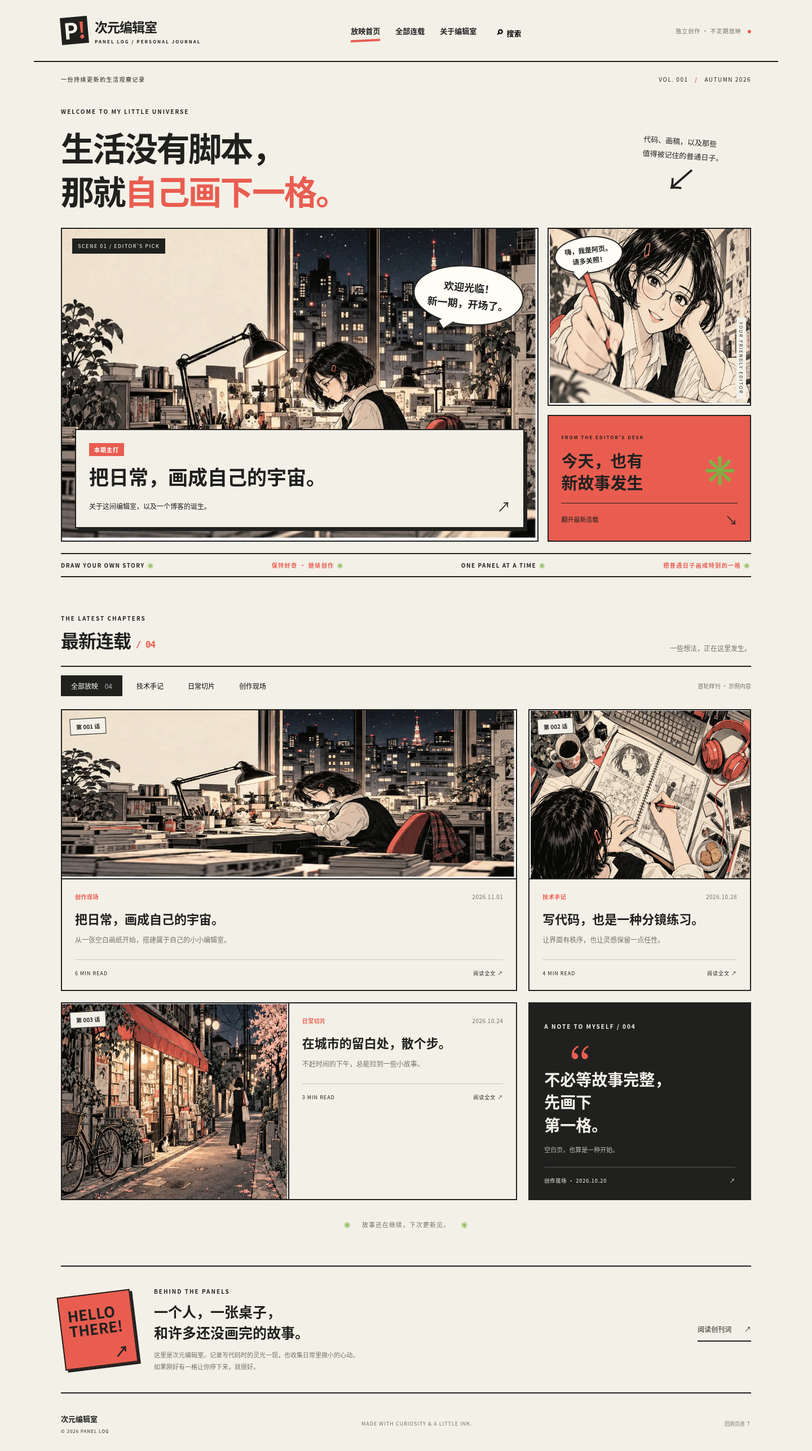
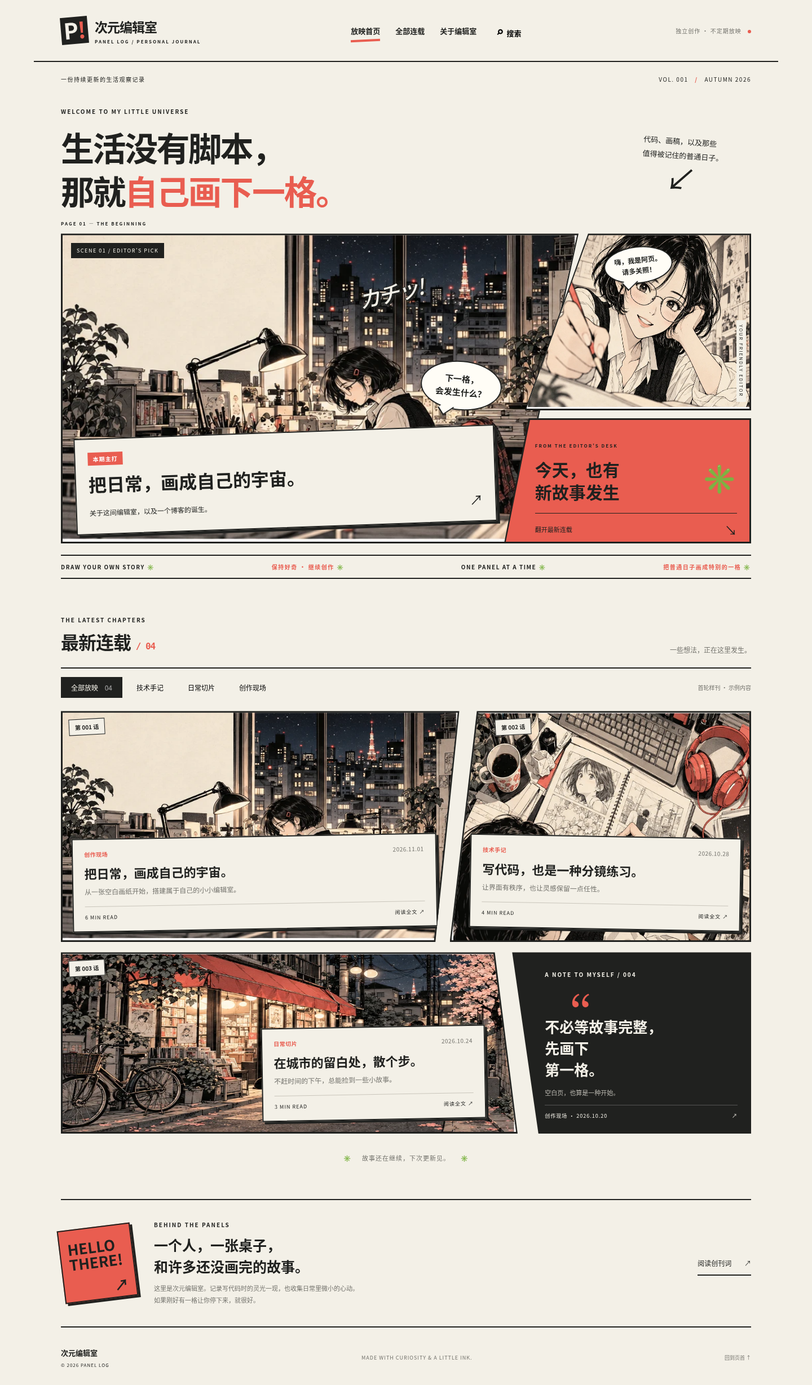
Compose homepage as irregular manga panels

diff --git a/styles.css b/styles.css
@@ -1,1 +1,85 @@
 :root{--paper:#f3f0e7;--ink:#20211f;--muted:#75746e;--red:#e95d50;--line:2px solid var(--ink)}*{box-sizing:border-box}html{scroll-behavior:smooth;scroll-padding-top:24px}body{margin:0;background:var(--paper);color:var(--ink);font-family:'Noto Sans CJK SC','PingFang SC','Microsoft YaHei',sans-serif}a{color:inherit;text-decoration:none}button,input{font:inherit}button,a{-webkit-tap-highlight-color:transparent}button{cursor:pointer}a:focus-visible,button:focus-visible,input:focus-visible{outline:3px solid var(--red);outline-offset:5px}::selection{background:#f6b1a3}h1,h2,h3,p{margin:0}main,.site-header,footer{max-width:1320px;margin:auto;padding-left:48px;padding-right:48px}.site-header{display:flex;align-items:center;justify-content:space-between;min-height:110px;border-bottom:var(--line);gap:24px}.brand{display:flex;align-items:center;gap:12px;font-size:23px;font-weight:900;letter-spacing:-1px}.brand small{display:block;font-size:8px;letter-spacing:2px;margin-top:4px}.brand-mark{font-size:39px;line-height:44px;background:var(--ink);color:var(--paper);width:48px;height:48px;text-align:center;transform:rotate(-5deg);font-family:Arial Black,sans-serif}.brand-mark span{color:var(--red)}nav{display:flex;gap:27px;align-items:center;font-size:13px;font-weight:700}nav a{padding:12px 0;position:relative}nav a.active:after{content:'';position:absolute;bottom:2px;left:0;width:100%;height:4px;background:var(--red);transform:rotate(-3deg)}.search-toggle{border:0;background:none;font-size:22px;padding:8px}.search-toggle span{font-size:13px}.header-note{font-size:10px;letter-spacing:1px;color:var(--muted)}.header-note i{display:inline-block;width:6px;height:6px;background:var(--red);border-radius:100%;margin-left:8px}.issue-line{display:flex;justify-content:space-between;font-size:10px;letter-spacing:1.5px;margin:23px 0 42px}.issue-line b{color:var(--red);padding:0 8px}.eyebrow{font-size:10px;font-weight:800;letter-spacing:2px}.hero-heading{display:flex;justify-content:space-between;align-items:center;margin-bottom:28px}.hero-heading .eyebrow{margin-bottom:18px}h1{font-size:clamp(36px,4.2vw,59px);line-height:1.3;letter-spacing:-2.5px;font-weight:900}.coral{color:var(--red)}.intro-note{font-size:13px;line-height:1.9;transform:rotate(4deg);padding:20px 50px 0 0;position:relative}.hand-arrow{display:block;font-size:55px;line-height:1;text-align:center}.cover-grid{display:grid;grid-template-columns:minmax(0,2.35fr) minmax(0,1fr);gap:16px}.panel{border:var(--line);position:relative;overflow:hidden;background:var(--paper)}a.panel{transition:box-shadow .2s,transform .2s}a.panel:hover{box-shadow:5px 5px 0 var(--ink);transform:translate(-2px,-2px)}.cover-main{min-height:498px}.art{background-color:#dedbd1;background-image:url('assets/manga-sheet.webp');background-size:200% 200%;background-repeat:no-repeat}.studio{background-position:0 0}.portrait{background-position:100% 0}.street{background-position:0 100%}.desk{background-position:100% 100%}.cover-main>.art{position:absolute;inset:0}.panel-index{position:absolute;top:17px;left:18px;padding:7px 10px;background:var(--ink);color:var(--paper);font-size:9px;letter-spacing:1.5px}.speech{display:block;background:#fffdf6;border:2px solid var(--ink);border-radius:50%;padding:22px 24px;font-size:18px;font-weight:800;line-height:1.6;text-align:center;box-shadow:3px 3px 0 #20211f26}.speech:after{content:'';position:absolute;bottom:-9px;left:26%;height:18px;width:18px;background:#fffdf6;border-right:2px solid var(--ink);border-bottom:2px solid var(--ink);transform:skew(-20deg) rotate(42deg)}.cover-speech{position:absolute;top:65px;right:24px;transform:rotate(5deg)}.cover-caption{position:absolute;bottom:22px;left:23px;right:23px;background:var(--paper);border:var(--line);padding:20px 23px;box-shadow:5px 5px 0 var(--ink)}.tag{font-size:10px;font-weight:800;padding:4px 9px;display:inline-block;letter-spacing:1px}.red{color:#fff;background:var(--red)}.cover-caption h2{font-size:clamp(23px,2.45vw,35px);margin:10px 0}.cover-caption p{font-size:12px;display:flex;justify-content:space-between;align-items:center}.cover-caption p span{font-size:24px}.cover-side{display:grid;grid-template-rows:1.4fr 1fr;gap:16px}.editor-panel .art{position:absolute;inset:0}.mini-speech{position:absolute;font-size:12px;padding:12px 17px;left:10px;top:13px;transform:rotate(-6deg)}.vertical-label{writing-mode:vertical-rl;position:absolute;right:7px;bottom:10px;background:var(--paper);font-size:8px;letter-spacing:2px;padding:8px 3px}.dispatch{padding:22px;background:var(--red)}.dispatch .eyebrow{font-size:8px}.dispatch h2{font-size:29px;line-height:1.35;margin:13px 0 17px;position:relative}.dispatch h2>span{position:absolute;right:0;top:0;font-size:50px}.dispatch>div{border-top:1px solid var(--ink);padding-top:12px;display:flex;align-items:center;justify-content:space-between;font-size:11px}.circle-arrow{font-size:22px}.ticker{margin-top:20px;border-top:var(--line);border-bottom:var(--line);padding:12px 0;display:flex;justify-content:space-between;gap:25px;overflow:hidden;white-space:nowrap;font-size:10px;font-weight:800;letter-spacing:1.5px}.ticker span:nth-child(2n){color:var(--red)}.latest{padding-top:65px}.section-heading{display:flex;align-items:flex-end;justify-content:space-between;margin-bottom:23px}.section-heading h2{font-size:32px;letter-spacing:-1px;margin-top:8px}.count{font-size:16px;color:var(--red);font-family:monospace}.section-heading>p{font-size:12px;color:var(--muted)}.filters{display:flex;gap:7px;align-items:center;border-top:var(--line);padding:15px 0 23px}.filters button{border:1px solid transparent;background:transparent;padding:9px 17px;font-size:12px}.filters button.selected{background:var(--ink);color:var(--paper)}.filters button span{margin-left:9px;color:#aaa}.demo-label{margin-left:auto;font-size:10px;color:var(--muted)}.article-grid{display:grid;grid-template-columns:repeat(3,minmax(0,1fr));gap:20px}.featured{grid-column:span 2}.card-image{height:215px;border-bottom:var(--line)}.featured .card-image{height:300px}.image-label{position:absolute;top:14px;left:14px;background:var(--paper);padding:6px 10px;border:1px solid var(--ink);font-size:10px;font-weight:800;transform:rotate(-3deg)}.card-copy{padding:23px}.meta{display:flex;justify-content:space-between;gap:10px;font-size:10px;color:var(--muted);letter-spacing:.5px}.meta>span{color:var(--red);font-weight:800}.card-copy h3{font-size:22px;line-height:1.5;margin:15px 0 10px}.card-copy p{font-size:12px;line-height:1.9;color:var(--muted)}.card-bottom{display:flex;justify-content:space-between;align-items:center;border-top:1px solid #c9c5bb;padding-top:17px;margin-top:23px;font-size:9px;letter-spacing:1px}.article-grid>.article-card:nth-child(2){align-self:stretch}.article-grid>.article-card:nth-child(2) .card-image{height:300px}.article-grid>.article-card:nth-child(3){grid-column:span 2;display:grid;grid-template-columns:1fr 1fr}.article-grid>.article-card:nth-child(3) .card-image{height:100%;min-height:280px;border-bottom:0;border-right:var(--line)}.quote-card{padding:26px;background:var(--ink);color:var(--paper)}.quote-symbol{font-family:Georgia,serif;color:var(--red);font-size:85px;height:64px;display:block}.quote-card h3{font-size:28px;line-height:1.45}.quote-card>p{font-size:11px;color:#b9b7af;margin-top:15px}.quote-card .card-bottom{border-color:#555}.end-note{text-align:center;padding:35px 0 0;font-size:11px;color:var(--muted);letter-spacing:1px}.end-note span{color:var(--red);padding:0 15px}.about{border-top:var(--line);border-bottom:var(--line);margin:65px 0 35px;padding:36px 0;display:flex;align-items:center;gap:35px}.about-stamp{flex-shrink:0;width:130px;height:130px;background:var(--red);border:var(--line);padding:19px 13px;font-family:Arial Black,sans-serif;font-size:26px;line-height:1.05;font-weight:900;transform:rotate(-7deg);position:relative;box-shadow:4px 4px 0 var(--ink)}.about-stamp span{position:absolute;bottom:8px;right:12px}.about h2{font-size:25px;line-height:1.5;margin:10px 0}.about p:not(.eyebrow){font-size:11px;line-height:1.9;color:var(--muted)}.about-link{margin-left:auto;white-space:nowrap;font-size:12px;border-bottom:var(--line);padding:12px 0}.about-link span{padding-left:20px}footer{display:flex;justify-content:space-between;align-items:center;gap:20px;padding-bottom:30px;font-size:9px;color:var(--muted)}.footer-brand{color:var(--ink);font-weight:800;font-size:13px}.footer-brand span{display:block;font-size:8px;font-weight:400;margin-top:7px;letter-spacing:1px}footer>span{letter-spacing:1px}.skip{position:fixed;top:-100px;left:15px;z-index:100;background:var(--paper);padding:15px}.skip:focus{top:10px}[hidden]{display:none!important}.empty{padding:50px;text-align:center}dialog{width:min(620px,calc(100% - 32px));max-height:80vh;padding:30px;background:var(--paper);border:var(--line);box-shadow:8px 8px 0 var(--ink)}dialog::backdrop{background:#20211f99}dialog form{display:flex;justify-content:space-between;align-items:center}dialog label{font-size:22px;font-weight:800}dialog label small{display:block;font-size:11px;font-weight:400;margin-top:8px;color:var(--muted)}.close-search{border:0;background:transparent;font-size:32px}dialog input{width:100%;margin:25px 0 15px;padding:14px;border:var(--line);background:#fffdf6}#search-results a{display:block;padding:15px 0;border-bottom:1px solid #cbc7bd;font-size:14px}#search-results a small{display:block;color:var(--red);margin-bottom:5px}.reader-shell{padding-top:30px}.breadcrumb{font-size:11px;color:var(--muted);margin-bottom:25px}.article-heading{max-width:850px;margin:35px auto}.article-heading h1{font-size:clamp(32px,4vw,52px);margin:20px 0;letter-spacing:-1.5px}.article-heading .deck{font-size:16px;line-height:1.8;color:var(--muted);margin-bottom:22px}.article-tools{display:flex;gap:12px;align-items:center;justify-content:space-between}.article-tools .meta{gap:20px}.reading-toggle{background:transparent;border:1px solid var(--ink);padding:8px 12px;font-size:11px}.article-banner{height:360px;border:var(--line);position:relative}.article-banner .speech{position:absolute;right:30px;top:25px;font-size:15px}.reading-layout{display:grid;grid-template-columns:180px minmax(0,740px);gap:50px;justify-content:center;margin-top:50px}.toc{align-self:start;position:sticky;top:30px;font-size:11px;line-height:2}.toc strong{display:block;margin-bottom:15px;font-size:10px;letter-spacing:2px}.toc a{display:block;border-left:2px solid #d4cfc4;padding:5px 0 5px 14px}.toc a:hover{border-color:var(--red);color:var(--red)}.prose{background:#fffdf7;border:var(--line);padding:44px 48px;font-size:17px;line-height:1.95;min-width:0}.prose p{margin-bottom:24px}.prose h2{font-size:26px;line-height:1.5;margin:42px 0 22px;scroll-margin-top:30px}.prose h2:first-child{margin-top:0}.prose h2 span{font-size:13px;color:var(--red);margin-right:10px;font-family:monospace}.prose blockquote{margin:30px 0;border-left:5px solid var(--red);padding:16px 22px;background:var(--paper);font-weight:700}.prose figure{margin:30px 0}.inline-art{height:250px;border:var(--line)}.prose figcaption{text-align:center;font-size:11px;color:var(--muted);margin-top:8px}.code-wrap{position:relative}.copy-code{position:absolute;right:10px;top:9px;border:1px solid #777;background:var(--ink);color:var(--paper);padding:5px 9px;font-size:11px}.prose pre{background:var(--ink);color:#f2ead9;font-size:13px;padding:45px 20px 22px;overflow:auto;line-height:1.8}.table-scroll{overflow:auto}.prose table{width:100%;border-collapse:collapse;font-size:13px;white-space:nowrap}.prose td,.prose th{border:1px solid #cbc6bb;padding:12px;text-align:left}.prose th{background:var(--paper)}.colophon{font-size:12px;color:var(--muted);border-top:1px solid #ccc;padding-top:23px;margin-top:35px}.back-link{display:block;margin:35px 0;text-align:center;font-size:13px}.reading-mode .article-banner,.reading-mode .toc{display:none}.reading-mode .reading-layout{display:block;max-width:780px;margin:35px auto}.reading-mode .prose{border-color:transparent}.reading-mode .art{display:none}@media(prefers-reduced-motion:no-preference){.cover-grid{animation:arrive .6s ease-out}@keyframes arrive{from{opacity:0;transform:translateY(12px)}to{opacity:1;transform:none}}}@media(min-width:1450px){body:before,body:after{content:'PANEL LOG — ONE PANEL AT A TIME';position:fixed;top:40%;writing-mode:vertical-rl;font-size:9px;letter-spacing:4px;color:#aaa69b}body:before{left:25px}body:after{right:25px}}@media(max-width:1050px){main,.site-header,footer{padding-left:28px;padding-right:28px}.header-note{display:none}.intro-note{padding-right:15px}.cover-main{min-height:450px}.dispatch{padding:17px}.dispatch h2{font-size:24px}.dispatch h2>span{font-size:36px}.reading-layout{grid-template-columns:140px minmax(0,1fr);gap:25px}.prose{padding:32px}.about{gap:25px}.about h2{font-size:21px}}@media(max-width:700px){main,.site-header,footer{padding-left:20px;padding-right:20px}.site-header{min-height:83px;gap:10px}.brand{font-size:18px;gap:8px}.brand-mark{width:37px;height:38px;font-size:30px;line-height:36px}.brand small{font-size:6px;letter-spacing:1px}nav{gap:10px}nav>a{display:none}.search-toggle span{display:none}.issue-line{font-size:8px;letter-spacing:.3px;margin:18px 0 30px}.hero-heading .eyebrow{font-size:8px;letter-spacing:1.4px;margin-bottom:14px}h1{font-size:36px;letter-spacing:-1.8px}.intro-note{display:none}.hero-heading{margin-bottom:23px}.cover-grid{grid-template-columns:1fr;gap:12px}.cover-main{min-height:420px}.cover-main>.art{background-size:auto 200%;background-position:12% 0}.cover-speech{font-size:13px;padding:17px;right:16px;top:55px}.panel-index{font-size:7px;left:12px;top:12px}.cover-caption{left:12px;right:16px;bottom:16px;padding:16px}.cover-caption h2{font-size:23px}.cover-caption p{font-size:10px;line-height:1.7}.cover-side{grid-template-columns:1fr 1fr;grid-template-rows:180px;gap:12px}.mini-speech{font-size:10px;padding:8px 10px;top:8px;left:5px}.dispatch{padding:14px}.dispatch .eyebrow{font-size:6px;letter-spacing:1px}.dispatch h2{font-size:21px;margin:14px 0}.dispatch h2>span{font-size:28px;right:-5px;top:30px}.dispatch>div{font-size:9px}.ticker{margin-top:17px;font-size:8px;padding:10px 0;gap:28px}.latest{padding-top:40px}.section-heading h2{font-size:28px}.section-heading>p{display:none}.filters{gap:0;flex-wrap:wrap;padding:12px 0 17px}.filters button{font-size:11px;padding:8px 12px}.demo-label{width:100%;margin-top:13px;font-size:9px}.article-grid{grid-template-columns:1fr;gap:17px}.featured,.article-grid>.article-card:nth-child(3){grid-column:auto}.card-image,.featured .card-image,.article-grid>.article-card:nth-child(2) .card-image{height:220px}.card-copy{padding:20px}.card-copy h3{font-size:21px}.article-grid>.article-card:nth-child(3){display:block}.article-grid>.article-card:nth-child(3) .card-image{height:220px;min-height:0;border-right:0;border-bottom:var(--line)}.quote-card{min-height:290px}.quote-card h3{font-size:29px}.end-note{font-size:9px;letter-spacing:0}.end-note span{padding:0 5px}.about{margin-top:40px;padding:28px 0;display:grid;grid-template-columns:72px 1fr;gap:20px}.about-stamp{width:70px;height:85px;font-size:16px;padding:13px 6px}.about .eyebrow{font-size:7px;letter-spacing:1px}.about h2{font-size:18px}.about p:not(.eyebrow){font-size:11px}.about-link{grid-column:2;margin:0;justify-self:start;padding:0 0 8px}footer{flex-wrap:wrap;font-size:8px}footer>span{order:3;width:100%;font-size:7px}.article-heading{margin:25px 0}.article-heading h1{font-size:34px}.article-heading .deck{font-size:14px}.article-tools{align-items:flex-start}.article-tools .meta{gap:7px;flex-direction:column}.article-banner{height:240px}.article-banner .speech{font-size:12px;padding:15px;right:15px;top:15px}.reading-layout{display:block;margin-top:25px}.toc{position:static;border:var(--line);padding:16px;margin-bottom:20px}.toc strong{margin-bottom:8px}.toc a{display:inline-block;padding:2px 10px}.prose{padding:25px 20px;font-size:16px;line-height:1.9}.prose h2{font-size:23px}.prose blockquote{padding:15px;font-size:15px}.inline-art{height:200px}}@media(prefers-reduced-motion:reduce){html{scroll-behavior:auto}*,*:before,*:after{animation:none!important;transition:none!important}}
+
+/* Manga page composition: image cuts, gutters and readable horizontal captions. */
+.cover-grid.manga-spread{display:block;position:relative;height:550px;margin-top:38px;margin-bottom:12px;isolation:isolate}
+.manga-spread .panel{border:0;background:var(--ink);position:absolute;transform:none;box-shadow:none}
+.manga-spread .panel>.art{inset:3px;background-color:var(--paper)}
+.manga-spread .cover-main{top:0;left:0;width:75%;height:100%;min-height:0;clip-path:polygon(0 0,100% 0,87% 100%,0 100%)}
+.manga-spread .cover-main>.art{clip-path:polygon(0 0,100% 0,87% 100%,0 100%);background-size:200% 200%}
+.manga-spread .cover-side{display:contents}
+.manga-spread .editor-panel{right:0;top:0;width:32.8%;height:57%;clip-path:polygon(28% 0,100% 0,100% 100%,0 100%)}
+.manga-spread .editor-panel>.art{clip-path:polygon(28% 0,100% 0,100% 100%,0 100%);background-size:200% 200%;background-position:100% 0}
+.manga-spread .dispatch{right:0;bottom:0;width:35.8%;height:40.5%;clip-path:polygon(10% 0,100% 0,100% 100%,0 100%);padding:33px 25px 20px 55px}
+.manga-spread .dispatch:before{content:'';position:absolute;inset:3px;background:var(--red);clip-path:polygon(10% 0,100% 0,100% 100%,0 100%);z-index:-1}
+.manga-spread .dispatch h2{font-size:30px}.manga-spread .dispatch h2>span{color:var(--ink)}
+.manga-spread .cover-caption{left:25px;right:16%;bottom:27px;transform:rotate(-2deg);padding:20px 22px}
+.manga-spread .cover-caption h2{font-size:clamp(22px,2.3vw,32px)}
+.manga-spread .mini-speech{top:23px;left:35%;font-size:12px;z-index:2}
+.manga-spread .vertical-label{right:9px;bottom:15px}
+.spread-number{position:absolute;left:0;top:-23px;font-size:8px;letter-spacing:2px;font-weight:700}
+.gutter-speech{position:absolute;z-index:4;top:49%;left:58%;font-size:15px;transform:translate(-50%,-50%) rotate(5deg);padding:18px 25px;pointer-events:none}
+.sound-effect{position:absolute;left:43%;top:14%;font-size:39px;font-weight:900;font-style:italic;letter-spacing:-4px;transform:rotate(-13deg);color:var(--paper);-webkit-text-stroke:1px var(--ink);text-shadow:3px 3px var(--ink);pointer-events:none}
+.manga-spread a.panel:hover>.art{filter:contrast(1.08)}
+.manga-spread a.panel:focus-visible{outline:none;filter:drop-shadow(0 0 5px var(--red))}
+.manga-spread a.panel:focus-visible .cover-caption,.manga-spread a.panel:focus-visible h2{outline:3px solid var(--red);outline-offset:4px}
+.manga-chapters{grid-template-columns:repeat(12,minmax(0,1fr));gap:18px;align-items:stretch}
+.manga-chapters .panel{border:0;background:var(--ink);box-shadow:none;transform:none}
+.manga-chapters .article-card{min-height:410px}
+.manga-chapters .featured{grid-column:span 7;clip-path:polygon(0 0,100% 0,94% 100%,0 100%)}
+.manga-chapters>.article-card:nth-child(2){grid-column:span 5;clip-path:polygon(9% 0,100% 0,100% 100%,0 100%);margin-left:-7%}
+.manga-chapters .card-image,.manga-chapters .featured .card-image,.manga-chapters>.article-card:nth-child(2) .card-image{position:absolute;inset:3px;height:auto;border:0}
+.manga-chapters .featured .card-image{clip-path:polygon(0 0,100% 0,94% 100%,0 100%)}
+.manga-chapters>.article-card:nth-child(2) .card-image{clip-path:polygon(9% 0,100% 0,100% 100%,0 100%)}
+.manga-chapters .card-copy{position:absolute;left:20px;right:40px;bottom:23px;padding:18px 20px;border:var(--line);background:var(--paper);box-shadow:4px 4px 0 var(--ink);transform:rotate(-1deg)}
+.manga-chapters>.article-card:nth-child(2) .card-copy{left:35px;right:18px;transform:rotate(1deg)}
+.manga-chapters .card-copy h3{font-size:22px;margin:10px 0 5px}.manga-chapters .card-bottom{margin-top:14px;padding-top:12px}
+.manga-chapters>.article-card:nth-child(2) .image-label{left:15%}
+.manga-chapters>.article-card:nth-child(3){grid-column:span 8;display:block;min-height:310px;clip-path:polygon(0 0,95% 0,100% 100%,0 100%)}
+.manga-chapters>.article-card:nth-child(3) .card-image{height:auto;min-height:0;border:0;clip-path:polygon(0 0,95% 0,100% 100%,0 100%);background-position:0 100%;background-size:200% 200%}
+.manga-chapters>.article-card:nth-child(3) .card-copy{left:auto;width:49%;right:7%;bottom:25px}
+.manga-chapters .quote-card{grid-column:span 4;clip-path:polygon(0 0,100% 0,100% 100%,11% 100%);padding:25px 24px 25px 40px;margin-left:-7%}
+.manga-chapters .quote-card h3{font-size:26px}.manga-chapters a.panel:hover .card-copy{background:#fffdf7}
+.manga-chapters a.panel:focus-visible{outline:none}.manga-chapters a.panel:focus-visible .card-copy{outline:3px solid var(--red);outline-offset:3px}.manga-chapters .quote-card:focus-visible h3{outline:3px solid var(--red)}
+.manga-chapters:has([hidden]){grid-template-columns:repeat(2,minmax(0,1fr))}
+.manga-chapters:has([hidden])>.panel{grid-column:auto;margin-left:0;clip-path:none}
+.manga-chapters:has([hidden])>.panel .card-image{clip-path:none}
+@media(max-width:1050px) and (min-width:701px){.cover-grid.manga-spread{height:500px}.manga-spread .dispatch{padding:24px 15px 15px 35px}.manga-spread .dispatch h2{font-size:23px}.manga-spread .dispatch .eyebrow{font-size:6px}.manga-spread .mini-speech{font-size:10px;padding:12px}.gutter-speech{font-size:12px;padding:15px}.manga-chapters .card-copy h3{font-size:19px}.manga-chapters .card-copy{padding:14px;left:13px;right:29px}.manga-chapters .quote-card{padding:20px 15px 20px 32px}.manga-chapters .quote-card h3{font-size:23px}}
+@media(max-width:700px){
+.cover-grid.manga-spread{height:650px;margin-top:33px}
+.manga-spread .cover-main{width:100%;height:65%;clip-path:polygon(0 0,100% 0,100% 85%,0 100%)}
+.manga-spread .cover-main>.art{clip-path:polygon(0 0,100% 0,100% 85%,0 100%);background-size:auto 200%;background-position:12% 0}
+.manga-spread .cover-caption{left:13px;right:14px;bottom:70px;padding:14px;transform:rotate(-2deg)}
+.manga-spread .cover-caption h2{font-size:22px}.manga-spread .cover-caption p{font-size:10px}
+.manga-spread .editor-panel{left:0;right:auto;top:58%;width:54%;height:42%;clip-path:polygon(0 17%,100% 0,86% 100%,0 100%)}
+.manga-spread .editor-panel>.art{clip-path:polygon(0 17%,100% 0,86% 100%,0 100%);background-size:auto 200%;background-position:88% 0}
+.manga-spread .dispatch{width:52%;height:46.5%;padding:60px 15px 15px 25px;clip-path:polygon(14% 11%,100% 0,100% 100%,0 100%)}
+.manga-spread .dispatch:before{clip-path:polygon(14% 11%,100% 0,100% 100%,0 100%)}
+.manga-spread .dispatch h2{font-size:24px;margin:15px 0 25px}.manga-spread .dispatch h2>span{font-size:27px;top:62px;right:1px}
+.manga-spread .dispatch .eyebrow{font-size:6px;letter-spacing:.6px;max-width:110px;line-height:1.8}
+.manga-spread .dispatch>div{font-size:9px}.manga-spread .mini-speech{top:24%;left:11px;font-size:10px;padding:11px}
+.gutter-speech{top:19%;left:auto;right:10px;transform:rotate(5deg);font-size:12px;padding:15px 20px}
+.sound-effect{top:44%;left:3%;font-size:28px}.manga-spread .vertical-label{bottom:17px;right:23px;font-size:6px}
+.manga-chapters,.manga-chapters:has([hidden]){display:grid;grid-template-columns:1fr;gap:18px}
+.manga-chapters .panel,.manga-chapters:has([hidden])>.panel{grid-column:auto;margin-left:0}
+.manga-chapters .article-card{min-height:365px}
+.manga-chapters .featured{clip-path:polygon(0 0,100% 0,100% 96%,0 100%)}
+.manga-chapters .featured .card-image{clip-path:polygon(0 0,100% 0,100% 96%,0 100%)}
+.manga-chapters>.article-card:nth-child(2){clip-path:polygon(0 4%,100% 0,100% 100%,0 100%);margin-top:-20px}
+.manga-chapters>.article-card:nth-child(2) .card-image{clip-path:polygon(0 4%,100% 0,100% 100%,0 100%)}
+.manga-chapters .card-copy,.manga-chapters>.article-card:nth-child(2) .card-copy{left:14px;right:14px;bottom:29px;padding:15px;transform:none}
+.manga-chapters .card-copy h3{font-size:21px}.manga-chapters .card-copy p{font-size:11px}
+.manga-chapters>.article-card:nth-child(2) .image-label{left:14px;top:29px}
+.manga-chapters>.article-card:nth-child(3){min-height:355px;clip-path:polygon(0 0,100% 0,100% 100%,0 94%)}
+.manga-chapters>.article-card:nth-child(3) .card-image{clip-path:polygon(0 0,100% 0,100% 100%,0 94%)}
+.manga-chapters>.article-card:nth-child(3) .card-copy{width:auto;left:14px;right:14px;bottom:35px}
+.manga-chapters .quote-card{min-height:300px;clip-path:polygon(0 0,100% 6%,100% 100%,0 100%);padding:36px 26px 26px;margin-top:-15px}
+.manga-chapters:has([hidden])>.panel{margin-top:0}
+}
+.manga-chapters .quote-card{padding-left:58px}
+@media(max-width:700px){
+.manga-chapters>.article-card:nth-child(2),.manga-chapters>.article-card:nth-child(3),.manga-chapters>.quote-card{grid-column:1 / -1}
+.manga-chapters>.article-card,.manga-chapters>.quote-card{min-width:0}
+.manga-chapters .quote-card{padding-left:26px}
+.sound-effect{top:15%;left:6%;font-size:27px}
+.manga-spread .mini-speech{top:17%;left:8px}
+}

diff --git a/index.html b/index.html
@@ -3,9 +3,9 @@
 <body><a class="skip" href="#main">跳到正文</a><header class="site-header"><a class="brand" href="index.html"><span class="brand-mark">P<span>!</span></span><span>次元编辑室<small>PANEL LOG / PERSONAL JOURNAL</small></span></a><nav aria-label="主导航"><a class="active" href="index.html" aria-current="page">放映首页</a><a href="#latest">全部连载</a><a href="#about">关于编辑室</a><button class="search-toggle" aria-label="打开搜索">⌕ <span>搜索</span></button></nav><span class="header-note">独立创作 · 不定期放映 <i></i></span></header>
 <main id="main"><div class="issue-line"><span>一份持续更新的生活观察记录</span><span>VOL. 001 <b> / </b> AUTUMN 2026</span></div>
 <section class="hero" aria-labelledby="hero-title"><div class="hero-heading"><div><p class="eyebrow">WELCOME TO MY LITTLE UNIVERSE</p><h1 id="hero-title">生活没有脚本，<br>那就<span class="coral">自己画下一格。</span></h1></div><div class="intro-note">代码、画稿，以及那些<br>值得被记住的普通日子。<span class="hand-arrow">↙</span></div></div>
-<div class="cover-grid"><a class="panel cover-main" href="article.html"><div class="art studio" role="img" aria-label="漫画编辑室里，戴眼镜的编辑在窗边书桌工作"></div><span class="panel-index">SCENE 01 / EDITOR'S PICK</span><span class="speech cover-speech">欢迎光临！<br>新一期，开场了。</span><div class="cover-caption"><span class="tag red">本期主打</span><h2>把日常，画成自己的宇宙。</h2><p>关于这间编辑室，以及一个博客的诞生。<span>↗</span></p></div></a><div class="cover-side"><div class="panel editor-panel"><div class="art portrait" role="img" aria-label="短发漫画编辑举起铅笔向读者打招呼"></div><span class="speech mini-speech">嗨，我是阿页。<br>请多关照！</span><span class="vertical-label">YOUR FRIENDLY EDITOR</span></div><a class="panel dispatch" href="#latest"><span class="eyebrow">FROM THE EDITOR'S DESK</span><h2>今天，也有<br>新故事发生<span>✳</span></h2><div><span>翻开最新连载</span><span class="circle-arrow">↘</span></div></a></div></div><div class="ticker" aria-hidden="true"><span>DRAW YOUR OWN STORY ✳</span><span>保持好奇 · 继续创作 ✳</span><span>ONE PANEL AT A TIME ✳</span><span>把普通日子画成特别的一格 ✳</span></div></section>
+<div class="cover-grid manga-spread"><span class="spread-number" aria-hidden="true">PAGE 01 — THE BEGINNING</span><a class="panel cover-main" href="article.html"><div class="art studio" role="img" aria-label="漫画编辑室里，戴眼镜的编辑在窗边书桌工作"></div><span class="panel-index">SCENE 01 / EDITOR'S PICK</span><div class="cover-caption"><span class="tag red">本期主打</span><h2>把日常，画成自己的宇宙。</h2><p>关于这间编辑室，以及一个博客的诞生。<span>↗</span></p></div></a><div class="cover-side"><div class="panel editor-panel"><div class="art portrait" role="img" aria-label="短发漫画编辑举起铅笔向读者打招呼"></div><span class="speech mini-speech">嗨，我是阿页。<br>请多关照！</span><span class="vertical-label">YOUR FRIENDLY EDITOR</span></div><a class="panel dispatch" href="#latest"><span class="eyebrow">FROM THE EDITOR'S DESK</span><h2>今天，也有<br>新故事发生<span>✳</span></h2><div><span>翻开最新连载</span><span class="circle-arrow">↘</span></div></a></div><span class="speech gutter-speech">下一格，<br>会发生什么？</span><span class="sound-effect" aria-hidden="true">カチッ!</span></div><div class="ticker" aria-hidden="true"><span>DRAW YOUR OWN STORY ✳</span><span>保持好奇 · 继续创作 ✳</span><span>ONE PANEL AT A TIME ✳</span><span>把普通日子画成特别的一格 ✳</span></div></section>
 <section id="latest" class="latest"><div class="section-heading"><div><p class="eyebrow">THE LATEST CHAPTERS</p><h2>最新连载<span class="count"> / 04</span></h2></div><p>一些想法，正在这里发生。</p></div><div class="filters" aria-label="文章分类"><button class="selected" data-filter="all" aria-pressed="true">全部放映 <span>04</span></button><button data-filter="技术" aria-pressed="false">技术手记</button><button data-filter="生活" aria-pressed="false">日常切片</button><button data-filter="创作" aria-pressed="false">创作现场</button><span class="demo-label">首轮样刊 · 示例内容</span></div>
-<div class="article-grid"><a class="panel article-card featured" href="article.html" data-category="创作" data-title="把日常，画成自己的宇宙"><div class="card-image art studio" role="img" aria-label="窗边的漫画工作室"></div><span class="image-label">第 001 话</span><div class="card-copy"><div class="meta"><span>创作现场</span><time datetime="2026-11-01">2026.11.01</time></div><h3>把日常，画成自己的宇宙。</h3><p>从一张空白画纸开始，搭建属于自己的小小编辑室。</p><div class="card-bottom"><span>6 MIN READ</span><span>阅读全文 ↗</span></div></div></a>
+<div class="article-grid manga-chapters"><a class="panel article-card featured" href="article.html" data-category="创作" data-title="把日常，画成自己的宇宙"><div class="card-image art studio" role="img" aria-label="窗边的漫画工作室"></div><span class="image-label">第 001 话</span><div class="card-copy"><div class="meta"><span>创作现场</span><time datetime="2026-11-01">2026.11.01</time></div><h3>把日常，画成自己的宇宙。</h3><p>从一张空白画纸开始，搭建属于自己的小小编辑室。</p><div class="card-bottom"><span>6 MIN READ</span><span>阅读全文 ↗</span></div></div></a>
 <a class="panel article-card" href="article.html?chapter=code" data-category="技术" data-title="写代码，也是一种分镜练习"><div class="card-image art desk" role="img" aria-label="键盘、咖啡与摊开的画稿"></div><span class="image-label">第 002 话</span><div class="card-copy"><div class="meta"><span>技术手记</span><time datetime="2026-10-28">2026.10.28</time></div><h3>写代码，也是一种分镜练习。</h3><p>让界面有秩序，也让灵感保留一点任性。</p><div class="card-bottom"><span>4 MIN READ</span><span>阅读全文 ↗</span></div></div></a>
 <a class="panel article-card" href="article.html?chapter=walk" data-category="生活" data-title="在城市的留白处，散个步"><div class="card-image art street" role="img" aria-label="有自行车和书店的安静街角"></div><span class="image-label">第 003 话</span><div class="card-copy"><div class="meta"><span>日常切片</span><time datetime="2026-10-24">2026.10.24</time></div><h3>在城市的留白处，散个步。</h3><p>不赶时间的下午，总能捡到一些小故事。</p><div class="card-bottom"><span>3 MIN READ</span><span>阅读全文 ↗</span></div></div></a>
 <a class="panel quote-card" href="article.html?chapter=blank" data-category="创作" data-title="空白页也算是一种开始"><span class="eyebrow">A NOTE TO MYSELF / 004</span><span class="quote-symbol">“</span><h3>不必等故事完整，<br>先画下<br>第一格。</h3><p>空白页，也算是一种开始。</p><div class="card-bottom"><span>创作现场 · 2026.10.20</span><span>↗</span></div></a></div><p class="empty" hidden>这一格暂时没有内容，试试其他关键词吧。</p><div class="end-note"><span>✳</span> 故事还在继续，下次更新见。 <span>✳</span></div></section>

diff --git a/scripts/smoke.py b/scripts/smoke.py
@@ -15,6 +15,16 @@ with sync_playwright() as p:
         assert page.goto(base+'/index.html').status == 200
         page.wait_for_function('document.fonts.status === "loaded"')
         assert page.evaluate('document.documentElement.scrollWidth <= innerWidth'), f'Overflow at {width}'
+        if width <= 700:
+            for card in page.locator('.article-card,.quote-card').all():
+                assert card.bounding_box()['width'] >= width - 50, 'Mobile panel unexpectedly narrow'
+        # The clipped-away corner must not remain part of the article link.
+        page.locator('.cover-main').scroll_into_view_if_needed()
+        assert page.locator('.cover-main').evaluate("""el => {
+          const r = el.getBoundingClientRect();
+          const hit = document.elementFromPoint(r.right - 2, r.bottom - 2);
+          return hit !== null && !el.contains(hit);
+        }"""), 'Clipped corner captures clicks'
         if width in [1440,390]: page.screenshot(path=str(shots/f'home-{width}.png'),full_page=True,animations='disabled')
         page.get_by_role('button', name='技术手记',exact=True).click()
         assert page.locator('.article-card:visible,.quote-card:visible').count()==1

diff --git a/docs/art-direction.md b/docs/art-direction.md
@@ -12,3 +12,9 @@
 正式生产前先锁定角色三视图、服装、表情、线条粗细、网点密度及主场景，再逐格生成。独立审核人物一致性、手部、裁切安全区、文字对比度。首轮采用一张四格概念图集，不能作为后续逐格精修已完成的证据。
 
 下一轮工程：Astro/MDX 内容模型、独立文章元信息与封面、RSS/归档/标签、社交分享图、响应式图片、原创角色透明图层与跨格动效。当前不以未实现的菜单入口占位。
+
+## 第二轮：异形漫画页构图
+
+首页首屏采用斜切主画格、梯形人物特写和斜边导读格；跨格气泡独立于画格裁切层。文章标题及摘要改为画面内旁白框，保留可选择的水平文字。手机改为纵向共享斜边构图，筛选后的文章恢复独立整格，避免空缺分镜。画格自身使用多边形裁切，裁切区不捕获链接点击。
+
+本轮仍复用已批准方向的概念图集；未生成角色透明层，因此只有气泡跨格，人物破框留待独立人物素材制作后完成。长文阅读布局保留。
